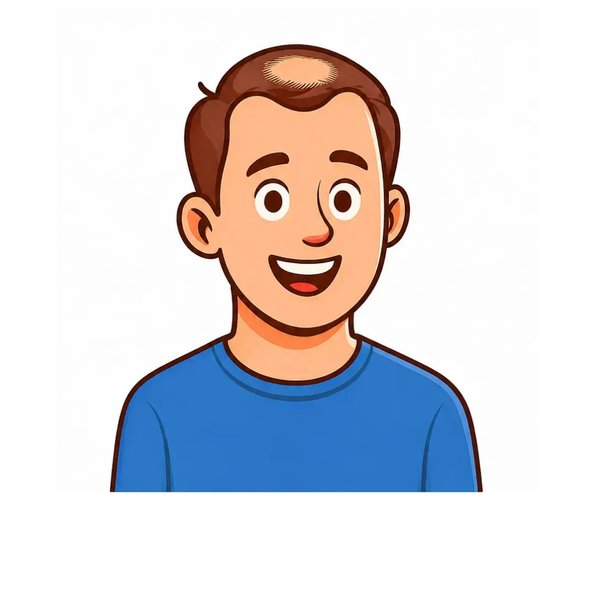
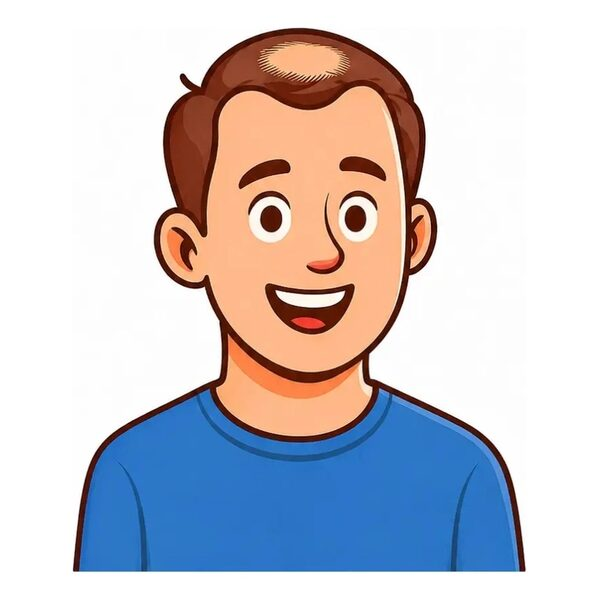
Norwood: replace stage assessment images with new 870x870 portrait set
Source images are square 1:1, resized to 600x600 at quality 82 (~29KB each).
Bumped cache-bust query from v=3 to v=4. CSS object-fit: contain remains in
place so full head/figure stays visible without clipping.

diff --git a/index.html b/index.html
@@ -1092,43 +1092,43 @@
         <div class="norwood-grid" role="radiogroup" aria-label="Norwood stage">
           <!-- Stage cards generated identically for EN/RU; only labels swap via data-lang -->
           <button type="button" class="norwood-card" role="radio" aria-checked="false" data-stage="1">
-            <div class="norwood-card__media"><img src="./norwood/stage-1.jpg?v=3" alt="Norwood stage 1 illustration" loading="lazy" width="240" height="240"></div>
+            <div class="norwood-card__media"><img src="./norwood/stage-1.jpg?v=4" alt="Norwood stage 1 illustration" loading="lazy" width="240" height="240"></div>
             <div class="norwood-card__stage">I</div>
             <div class="norwood-card__label" data-lang="en">No visible recession</div>
             <div class="norwood-card__label" data-lang="ru" style="display:none">Без выпадения</div>
           </button>
           <button type="button" class="norwood-card" role="radio" aria-checked="false" data-stage="2">
-            <div class="norwood-card__media"><img src="./norwood/stage-2.jpg?v=3" alt="Norwood stage 2 illustration" loading="lazy" width="240" height="240"></div>
+            <div class="norwood-card__media"><img src="./norwood/stage-2.jpg?v=4" alt="Norwood stage 2 illustration" loading="lazy" width="240" height="240"></div>
             <div class="norwood-card__stage">II</div>
             <div class="norwood-card__label" data-lang="en">Early temple recession</div>
             <div class="norwood-card__label" data-lang="ru" style="display:none">Лёгкое отступление на висках</div>
           </button>
           <button type="button" class="norwood-card" role="radio" aria-checked="false" data-stage="3">
-            <div class="norwood-card__media"><img src="./norwood/stage-3.jpg?v=3" alt="Norwood stage 3 illustration" loading="lazy" width="240" height="240"></div>
+            <div class="norwood-card__media"><img src="./norwood/stage-3.jpg?v=4" alt="Norwood stage 3 illustration" loading="lazy" width="240" height="240"></div>
             <div class="norwood-card__stage">III</div>
             <div class="norwood-card__label" data-lang="en">Defined M-shaped recession</div>
             <div class="norwood-card__label" data-lang="ru" style="display:none">Глубокое М-образное отступление</div>
           </button>
           <button type="button" class="norwood-card" role="radio" aria-checked="false" data-stage="4">
-            <div class="norwood-card__media"><img src="./norwood/stage-4.jpg?v=3" alt="Norwood stage 4 illustration" loading="lazy" width="240" height="240"></div>
+            <div class="norwood-card__media"><img src="./norwood/stage-4.jpg?v=4" alt="Norwood stage 4 illustration" loading="lazy" width="240" height="240"></div>
             <div class="norwood-card__stage">IV</div>
             <div class="norwood-card__label" data-lang="en">Front + crown involvement</div>
             <div class="norwood-card__label" data-lang="ru" style="display:none">Поредение спереди и на макушке</div>
           </button>
           <button type="button" class="norwood-card" role="radio" aria-checked="false" data-stage="5">
-            <div class="norwood-card__media"><img src="./norwood/stage-5.jpg?v=3" alt="Norwood stage 5 illustration" loading="lazy" width="240" height="240"></div>
+            <div class="norwood-card__media"><img src="./norwood/stage-5.jpg?v=4" alt="Norwood stage 5 illustration" loading="lazy" width="240" height="240"></div>
             <div class="norwood-card__stage">V</div>
             <div class="norwood-card__label" data-lang="en">Areas begin to merge</div>
             <div class="norwood-card__label" data-lang="ru" style="display:none">Зоны начинают сливаться</div>
           </button>
           <button type="button" class="norwood-card" role="radio" aria-checked="false" data-stage="6">
-            <div class="norwood-card__media"><img src="./norwood/stage-6.jpg?v=3" alt="Norwood stage 6 illustration" loading="lazy" width="240" height="240"></div>
+            <div class="norwood-card__media"><img src="./norwood/stage-6.jpg?v=4" alt="Norwood stage 6 illustration" loading="lazy" width="240" height="240"></div>
             <div class="norwood-card__stage">VI</div>
             <div class="norwood-card__label" data-lang="en">Extensive top/crown loss</div>
             <div class="norwood-card__label" data-lang="ru" style="display:none">Обширная зона облысения</div>
           </button>
           <button type="button" class="norwood-card" role="radio" aria-checked="false" data-stage="7">
-            <div class="norwood-card__media"><img src="./norwood/stage-7.jpg?v=3" alt="Norwood stage 7 illustration" loading="lazy" width="240" height="240"></div>
+            <div class="norwood-card__media"><img src="./norwood/stage-7.jpg?v=4" alt="Norwood stage 7 illustration" loading="lazy" width="240" height="240"></div>
             <div class="norwood-card__stage">VII</div>
             <div class="norwood-card__label" data-lang="en">Only sides &amp; back remain</div>
             <div class="norwood-card__label" data-lang="ru" style="display:none">Остаются только бока и затылок</div>
